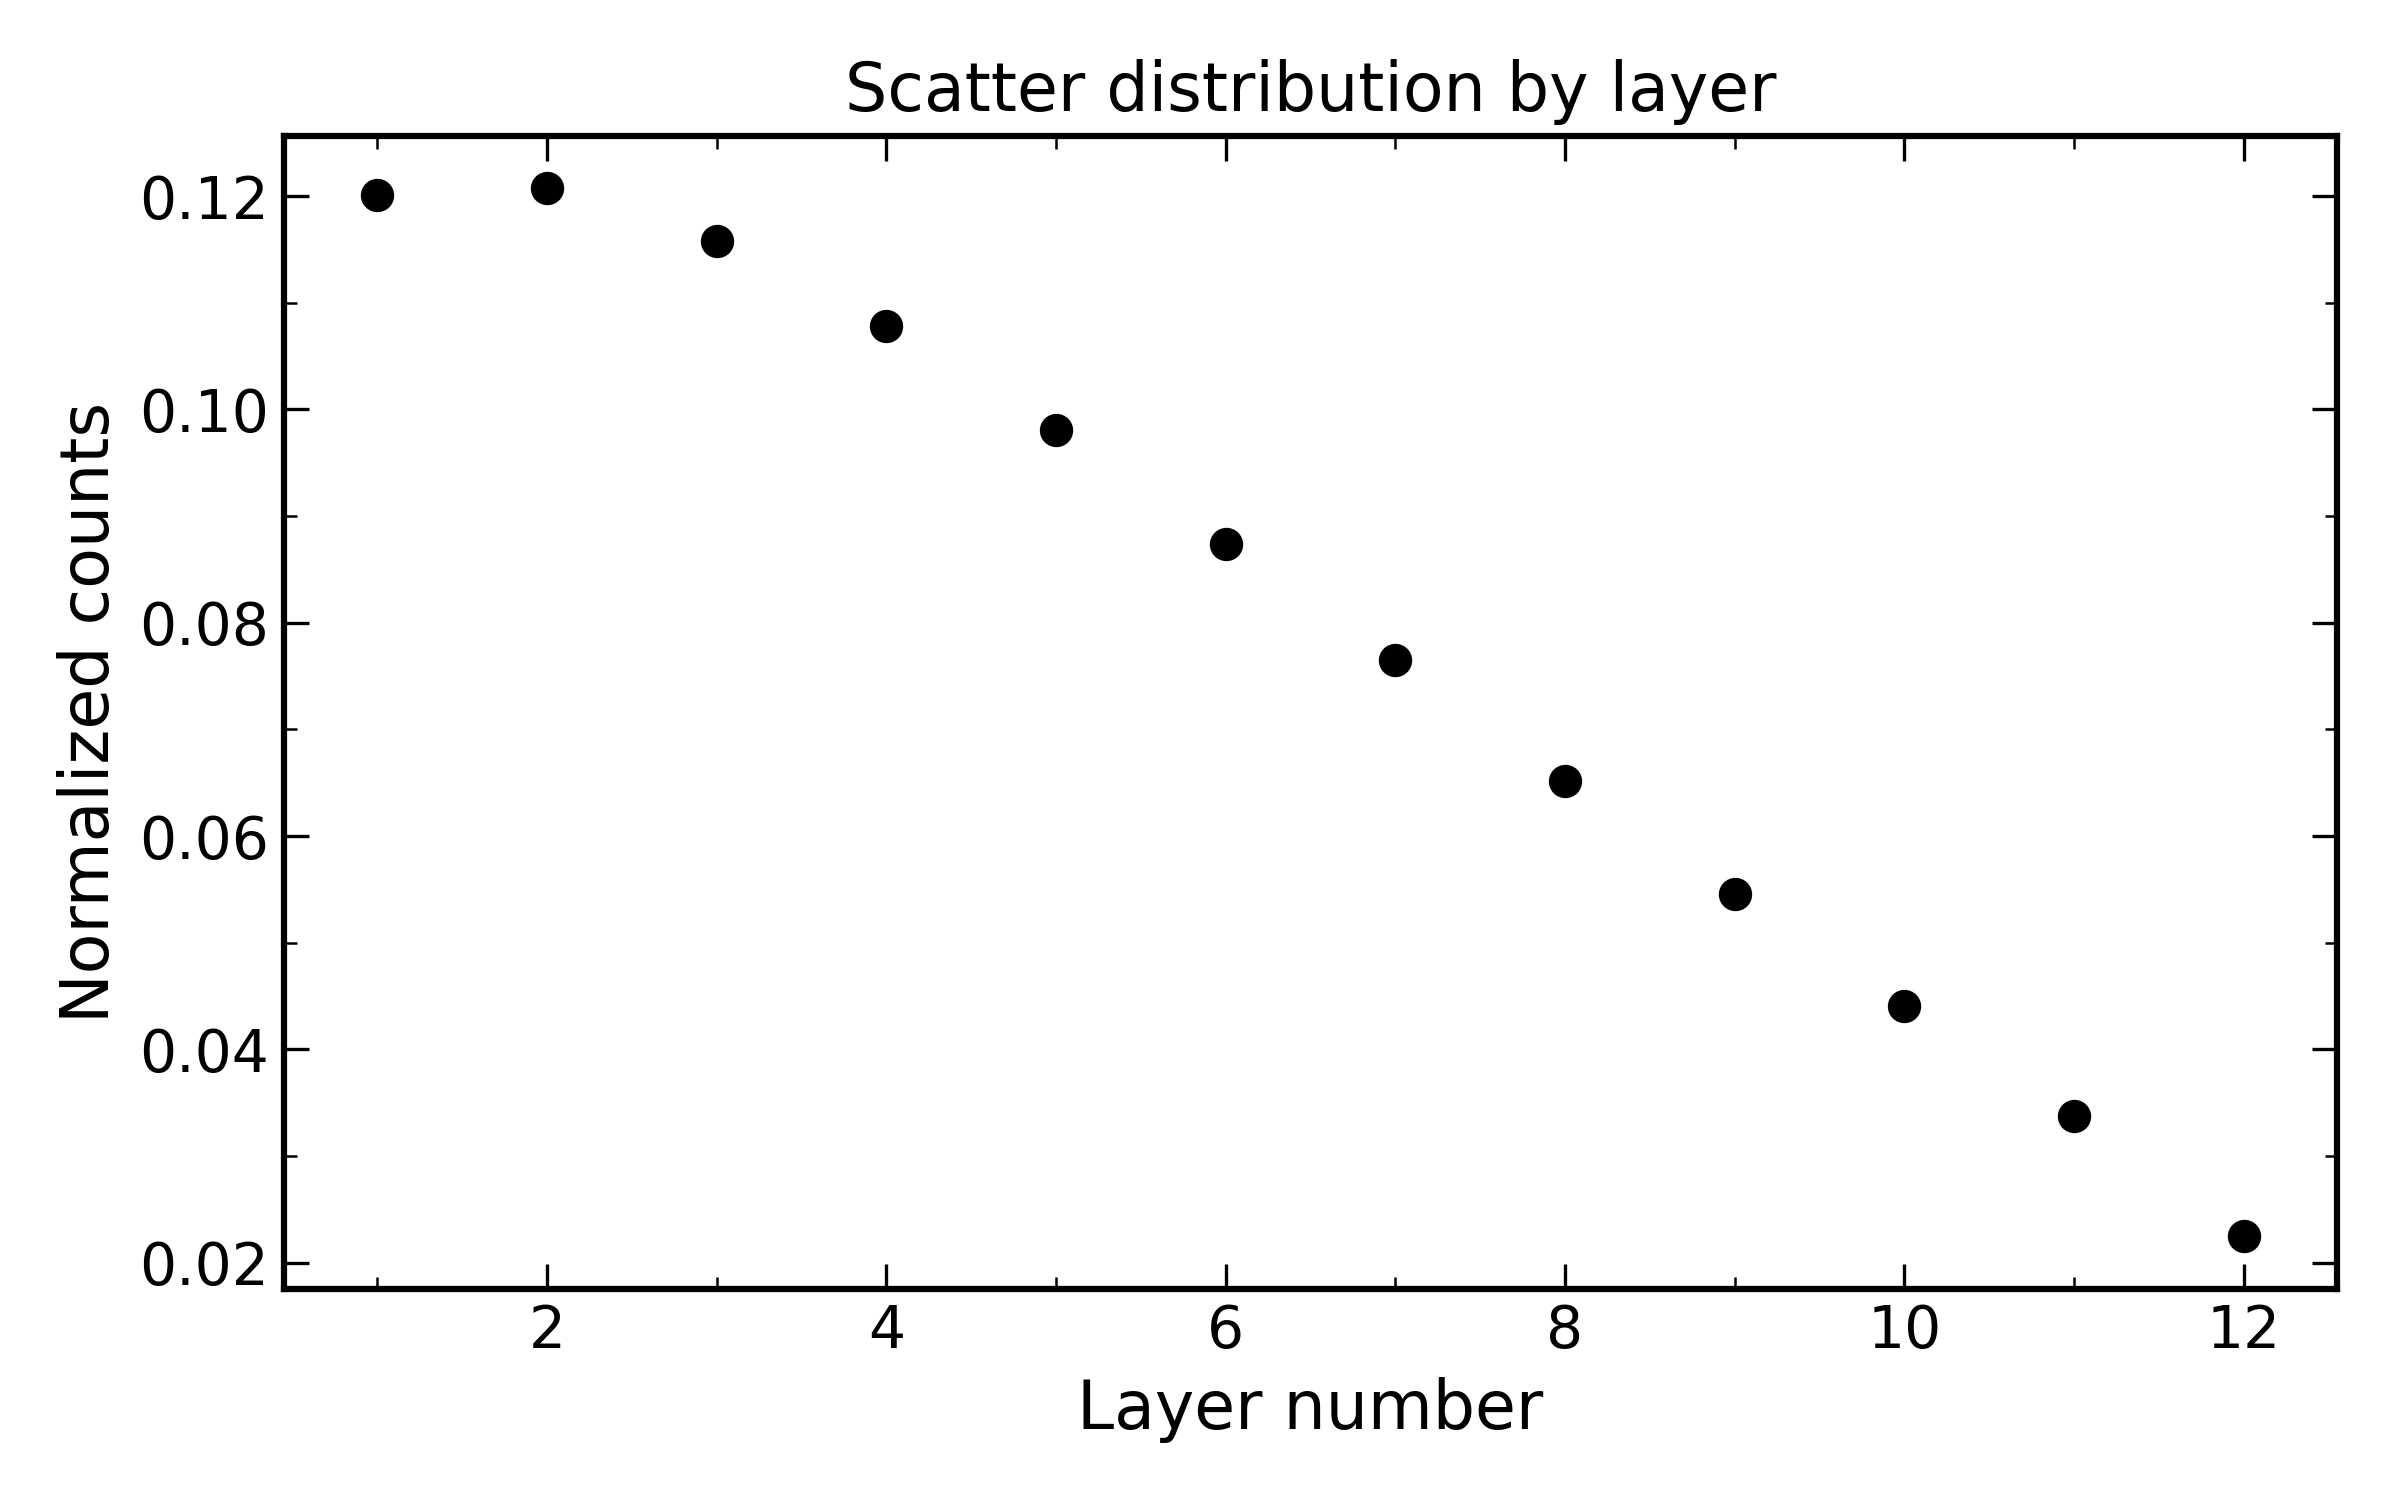
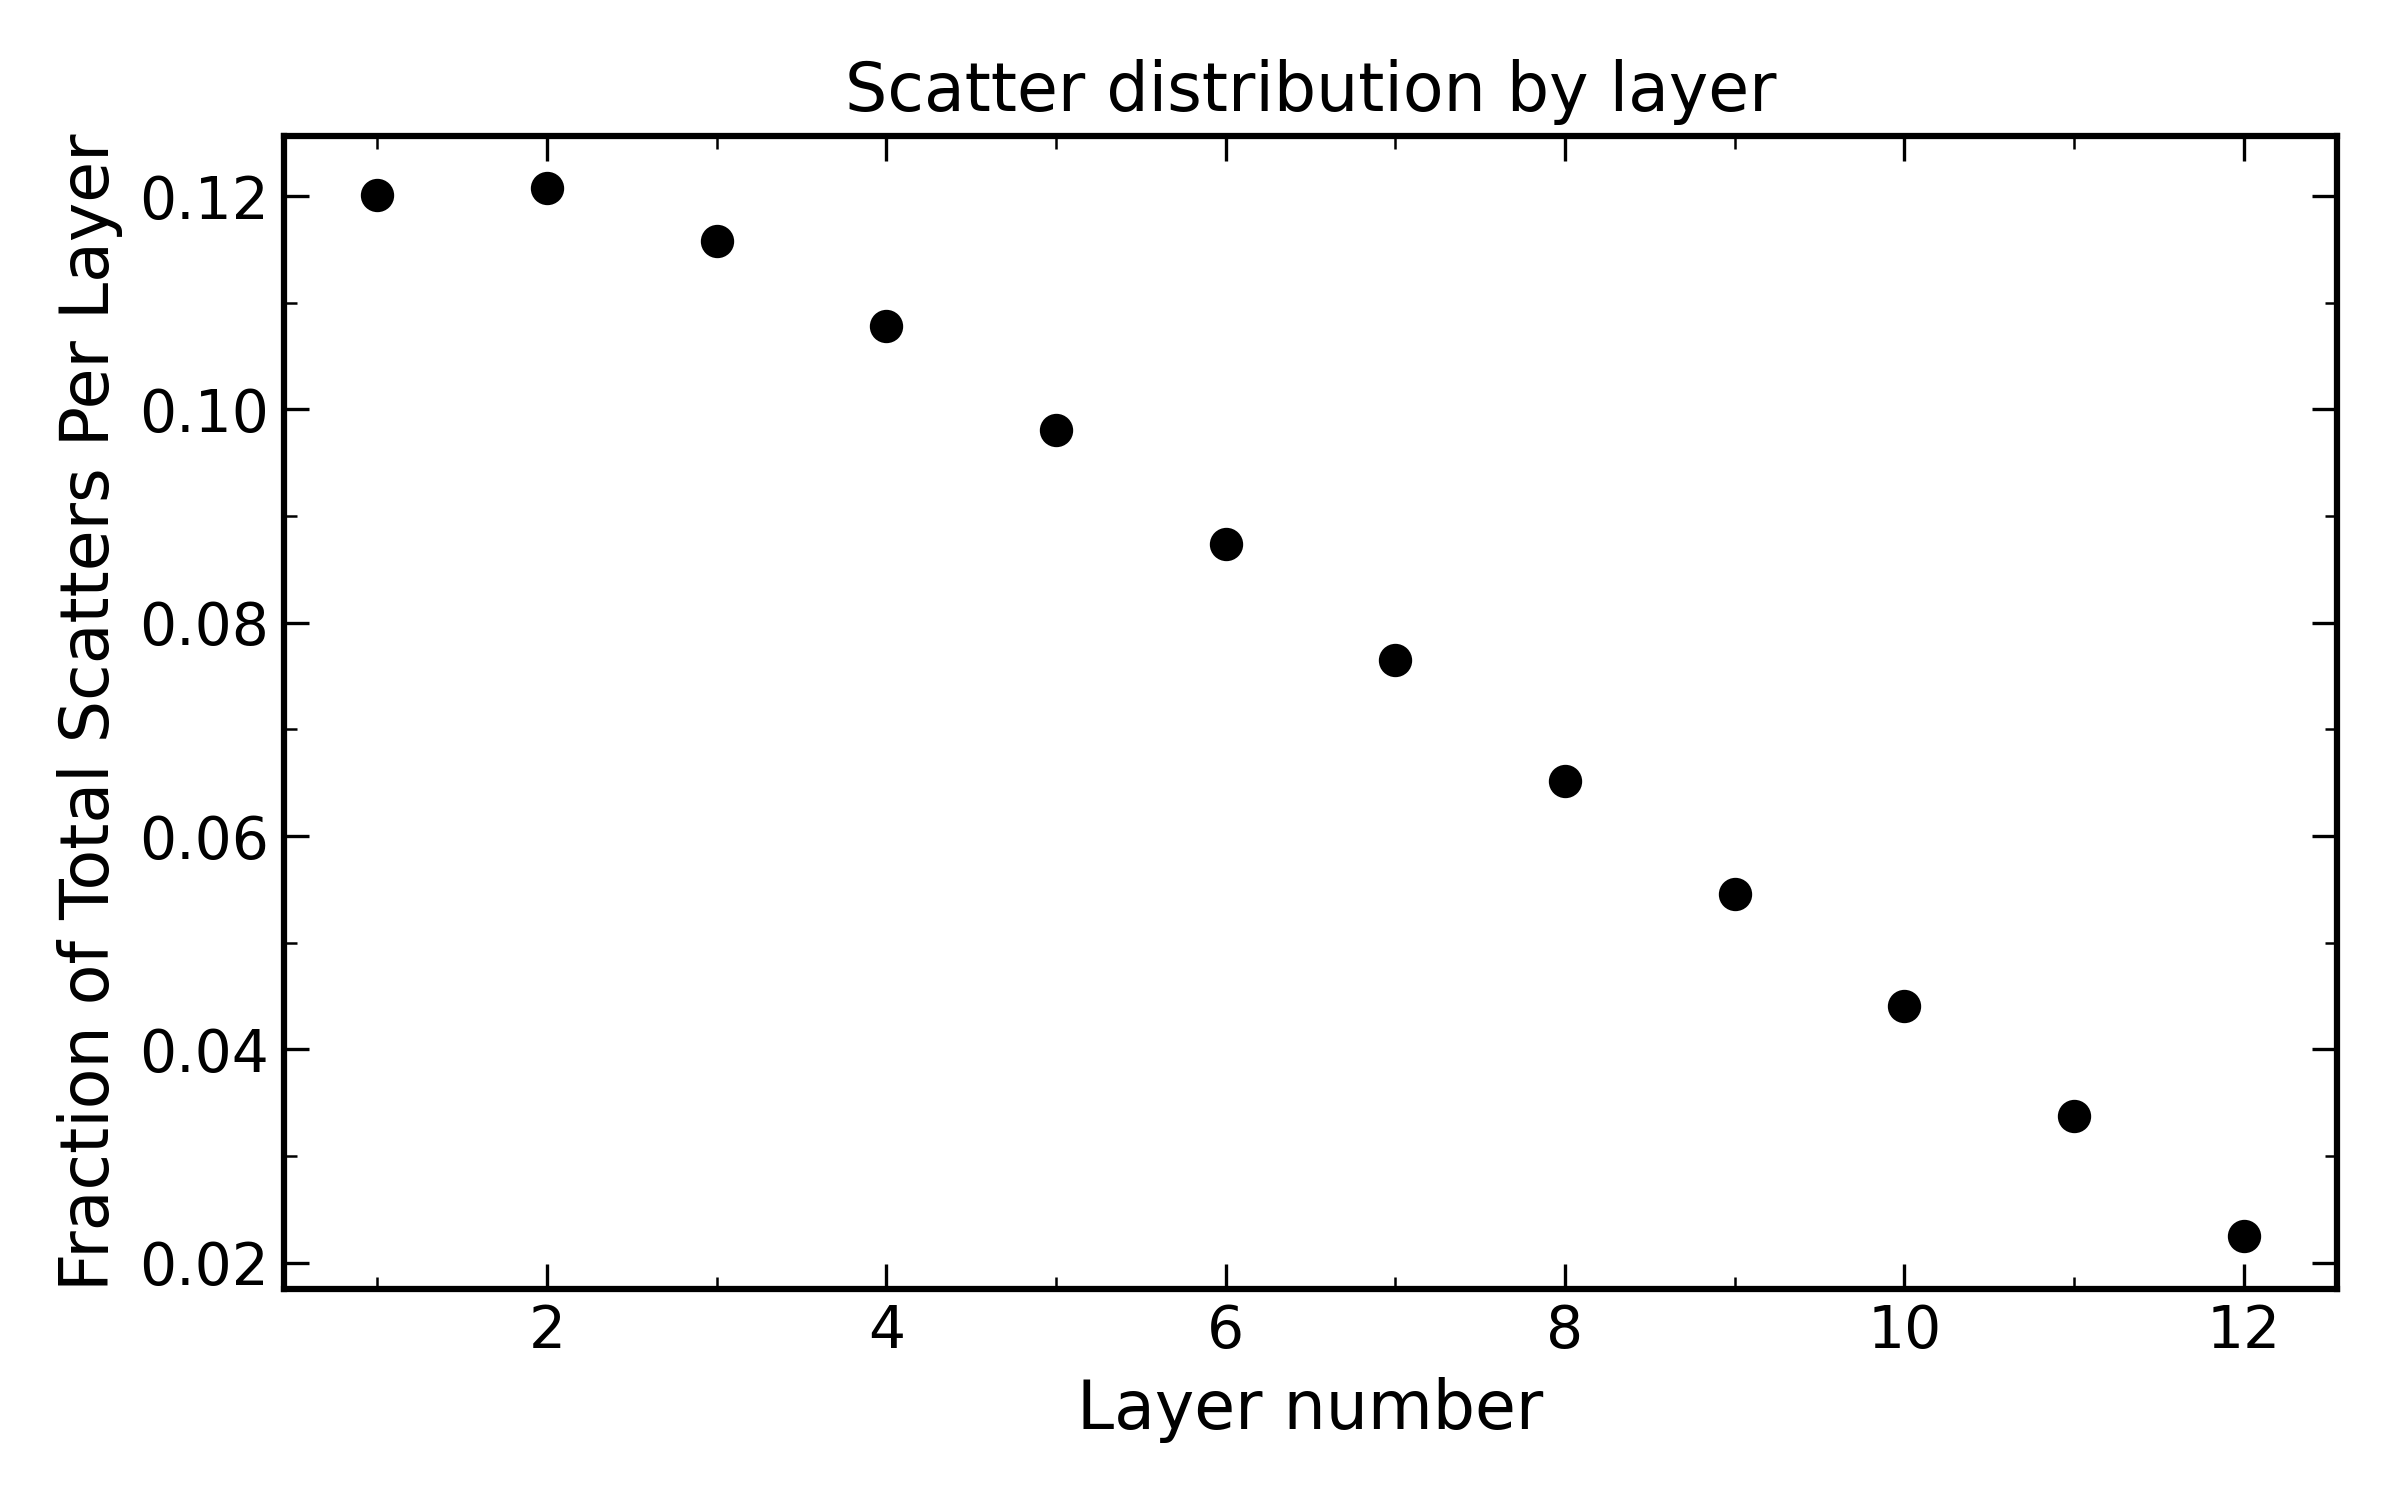
worked on debug stuff

Changed region(s): [[0.0, 0.2453, 0.0625, 0.8587], [0.0312, 0.092, 0.0625, 0.2147]]

diff --git a/src/hgmt_lor_creator.c b/src/hgmt_lor_creator.c
@@ -24,6 +24,11 @@ uint counter = 0;
 uint hit_first_counter = 0;
 uint hit_second_counter = 0;
 uint hit_third_counter = 0;
+uint chain_count = 0;
+uint lor_count = 0;
+uint first_scatter_count = 0;
+uint second_scatter_count = 0;
+uint third_scatter_count = 0;
 // global variables
 #define NUM_CUTS 6
 #define NUM_DEBUG_OPTIONS 5
@@ -189,6 +194,7 @@ int debug_path(photon_path *path, debug_context context) {
     return 0;
 
   if (path->num_hits != 0){
+    chain_count ++;
     //here I will do all the work for counting # of pore crossings
     hit *first_hit = path->hits[0];
     event *single_event = first_hit->source;
@@ -203,14 +209,17 @@ int debug_path(photon_path *path, debug_context context) {
   // getting all the important statistics
   if (debug_options[1]){
     if(path->num_events >= 1){
+        first_scatter_count ++;
         double range1 = pg_kapton_range_mm(path->events[0]->energy);
         fwrite(&range1, sizeof(double), 1, first_scatter_ranges);
     }
     if(path->num_events >= 2){
+        second_scatter_count ++;
         double range2 = pg_kapton_range_mm(path->events[1]->energy);
         fwrite(&range2, sizeof(double), 1, second_scatter_ranges);
     }
     if(path->num_events >= 3){
+        third_scatter_count ++;
         double range3 = pg_kapton_range_mm(path->events[2]->energy);
         fwrite(&range3, sizeof(double), 1, third_scatter_ranges);
     }
@@ -380,6 +389,7 @@ void *worker(void *arg) {
     primitive_lor prim_lor;
     lor new_lor;
     if (split.num_hits1 >= 1 && split.num_hits2 >= 1) { 
+      lor_count ++;
       prim_lor = create_prim_lor(split);
       new_lor = create_lor(&prim_lor);
       context.prim_lor = &prim_lor;
@@ -732,9 +742,13 @@ int main(int argc, char **argv) {
   printf("total hits: %u\n", num_hits);
   printf("total first scatters: %u\n", first_scatters);
   printf("total first hits: %u\n", first_hits);
+  printf("total chains: %u\n", chain_count);
+  printf("total number of lors: %u\n", lor_count);
   printf("first scatter hits: %u\n", hit_first_counter);
-  printf("second scatter hits: %u\n", hit_second_counter);
-  printf("third scatter counter: %u\n", hit_third_counter);
+  printf("first scatter count: %u\n", first_scatter_count);
+  printf("hits/first scatter: %d\n", hit_first_counter/first_scatter_count);
+  printf("hits/second scatter: %d\n", hit_second_counter/second_scatter_count);
+  printf("hits/third scatters: %d\n", hit_third_counter/third_scatter_count);
   printf(
       "(DUAL)CUT 'N': 'num' 'percent passing' 'cumulative percent passing'\n");
   for (int i = 1; i < NUM_CUTS; i++)

diff --git a/scripts/plot_lors_per_annihil.py b/scripts/plot_lors_per_annihil.py
@@ -1,0 +1,43 @@
+import numpy as np
+import matplotlib.pyplot as plt
+from matplotlib.ticker import MultipleLocator, AutoMinorLocator, FormatStrFormatter
+
+tau  = np.array([5, 4, 3, 2])
+lors_per_annihilation = np.array([0.51, 0.57, 0.63, 0.69])
+
+plt.rcParams.update({
+    "figure.figsize": (8, 5),
+    "axes.linewidth": 1.5,
+    "font.size": 14,
+    "xtick.direction": "in",
+    "ytick.direction": "in",
+    "xtick.top": True,
+    "ytick.right": True,
+})
+
+fig, ax = plt.subplots()
+ax.plot(tau, lors_per_annihilation, marker='o', ms = 10, linewidth=2)
+
+ax.set_xlabel("Tau (mil)", fontsize=16)
+ax.set_ylabel(r"LORs Per Annhilation $\frac{LORs}{Annihilaitons}$", fontsize=16)
+ax.set_title("LORs Per Annihilation v.s Tau", fontsize=18)
+
+# --- Axes limits ---
+ax.set_xlim(2, 5)
+ax.set_ylim(0.51, 0.69)   # accommodates full data range
+
+# --- X ticks: integers, no decimal formatting ---
+ax.xaxis.set_major_locator(MultipleLocator(1))
+ax.xaxis.set_minor_locator(AutoMinorLocator(2))
+
+# --- Y ticks ---
+ax.yaxis.set_major_locator(MultipleLocator(0.02))
+ax.yaxis.set_minor_locator(AutoMinorLocator(2))
+ax.yaxis.set_major_formatter(FormatStrFormatter("%.2f"))
+
+ax.tick_params(which='major', length=8, width=1.5, labelsize=12)
+ax.tick_params(which='minor', length=4, width=1.0)
+
+fig.tight_layout()
+plt.savefig("plots/lors_per_annihil.png", dpi=300)
+plt.show()

diff --git a/scripts/plot_chains_per_gamma.py b/scripts/plot_chains_per_gamma.py
@@ -1,0 +1,43 @@
+import numpy as np
+import matplotlib.pyplot as plt
+from matplotlib.ticker import MultipleLocator, AutoMinorLocator, FormatStrFormatter
+
+tau  = np.array([5, 4, 3, 2])
+chains_per_gamma = np.array([0.68, 0.72, 0.76, 0.79])
+
+plt.rcParams.update({
+    "figure.figsize": (8, 5),
+    "axes.linewidth": 1.5,
+    "font.size": 14,
+    "xtick.direction": "in",
+    "ytick.direction": "in",
+    "xtick.top": True,
+    "ytick.right": True,
+})
+
+fig, ax = plt.subplots()
+ax.plot(tau, chains_per_gamma, marker='o', ms = 10, linewidth=2)
+
+ax.set_xlabel("Tau (mil)", fontsize=16)
+ax.set_ylabel(r"Compton Chains per Gamma", fontsize=16)
+ax.set_title("Compton Chains per 511 keV Gamma", fontsize=18)
+
+# --- Axes limits ---
+ax.set_xlim(2, 5)
+ax.set_ylim(0.65, 0.79)   # accommodates full data range
+
+# --- X ticks: integers, no decimal formatting ---
+ax.xaxis.set_major_locator(MultipleLocator(1))
+ax.xaxis.set_minor_locator(AutoMinorLocator(2))
+
+# --- Y ticks ---
+ax.yaxis.set_major_locator(MultipleLocator(0.02))
+ax.yaxis.set_minor_locator(AutoMinorLocator(2))
+ax.yaxis.set_major_formatter(FormatStrFormatter("%.2f"))
+
+ax.tick_params(which='major', length=8, width=1.5, labelsize=12)
+ax.tick_params(which='minor', length=4, width=1.0)
+
+fig.tight_layout()
+plt.savefig("plots/chains_per_gamma.png", dpi=300)
+plt.show()

diff --git a/scripts/plot_scatter_per_layer.py b/scripts/plot_scatter_per_layer.py
@@ -82,7 +82,7 @@ layers_x = np.arange(1, num_layers + 1)
 ax.plot(layers_x, norm_counts, "o", markersize=7, color="black")
 
 ax.set_xlabel("Layer number")
-ax.set_ylabel("Normalized counts")
+ax.set_ylabel("Fraction of Total Scatters Per Layer")
 ax.set_title("Scatter distribution by layer")
 
 # Minor ticks
